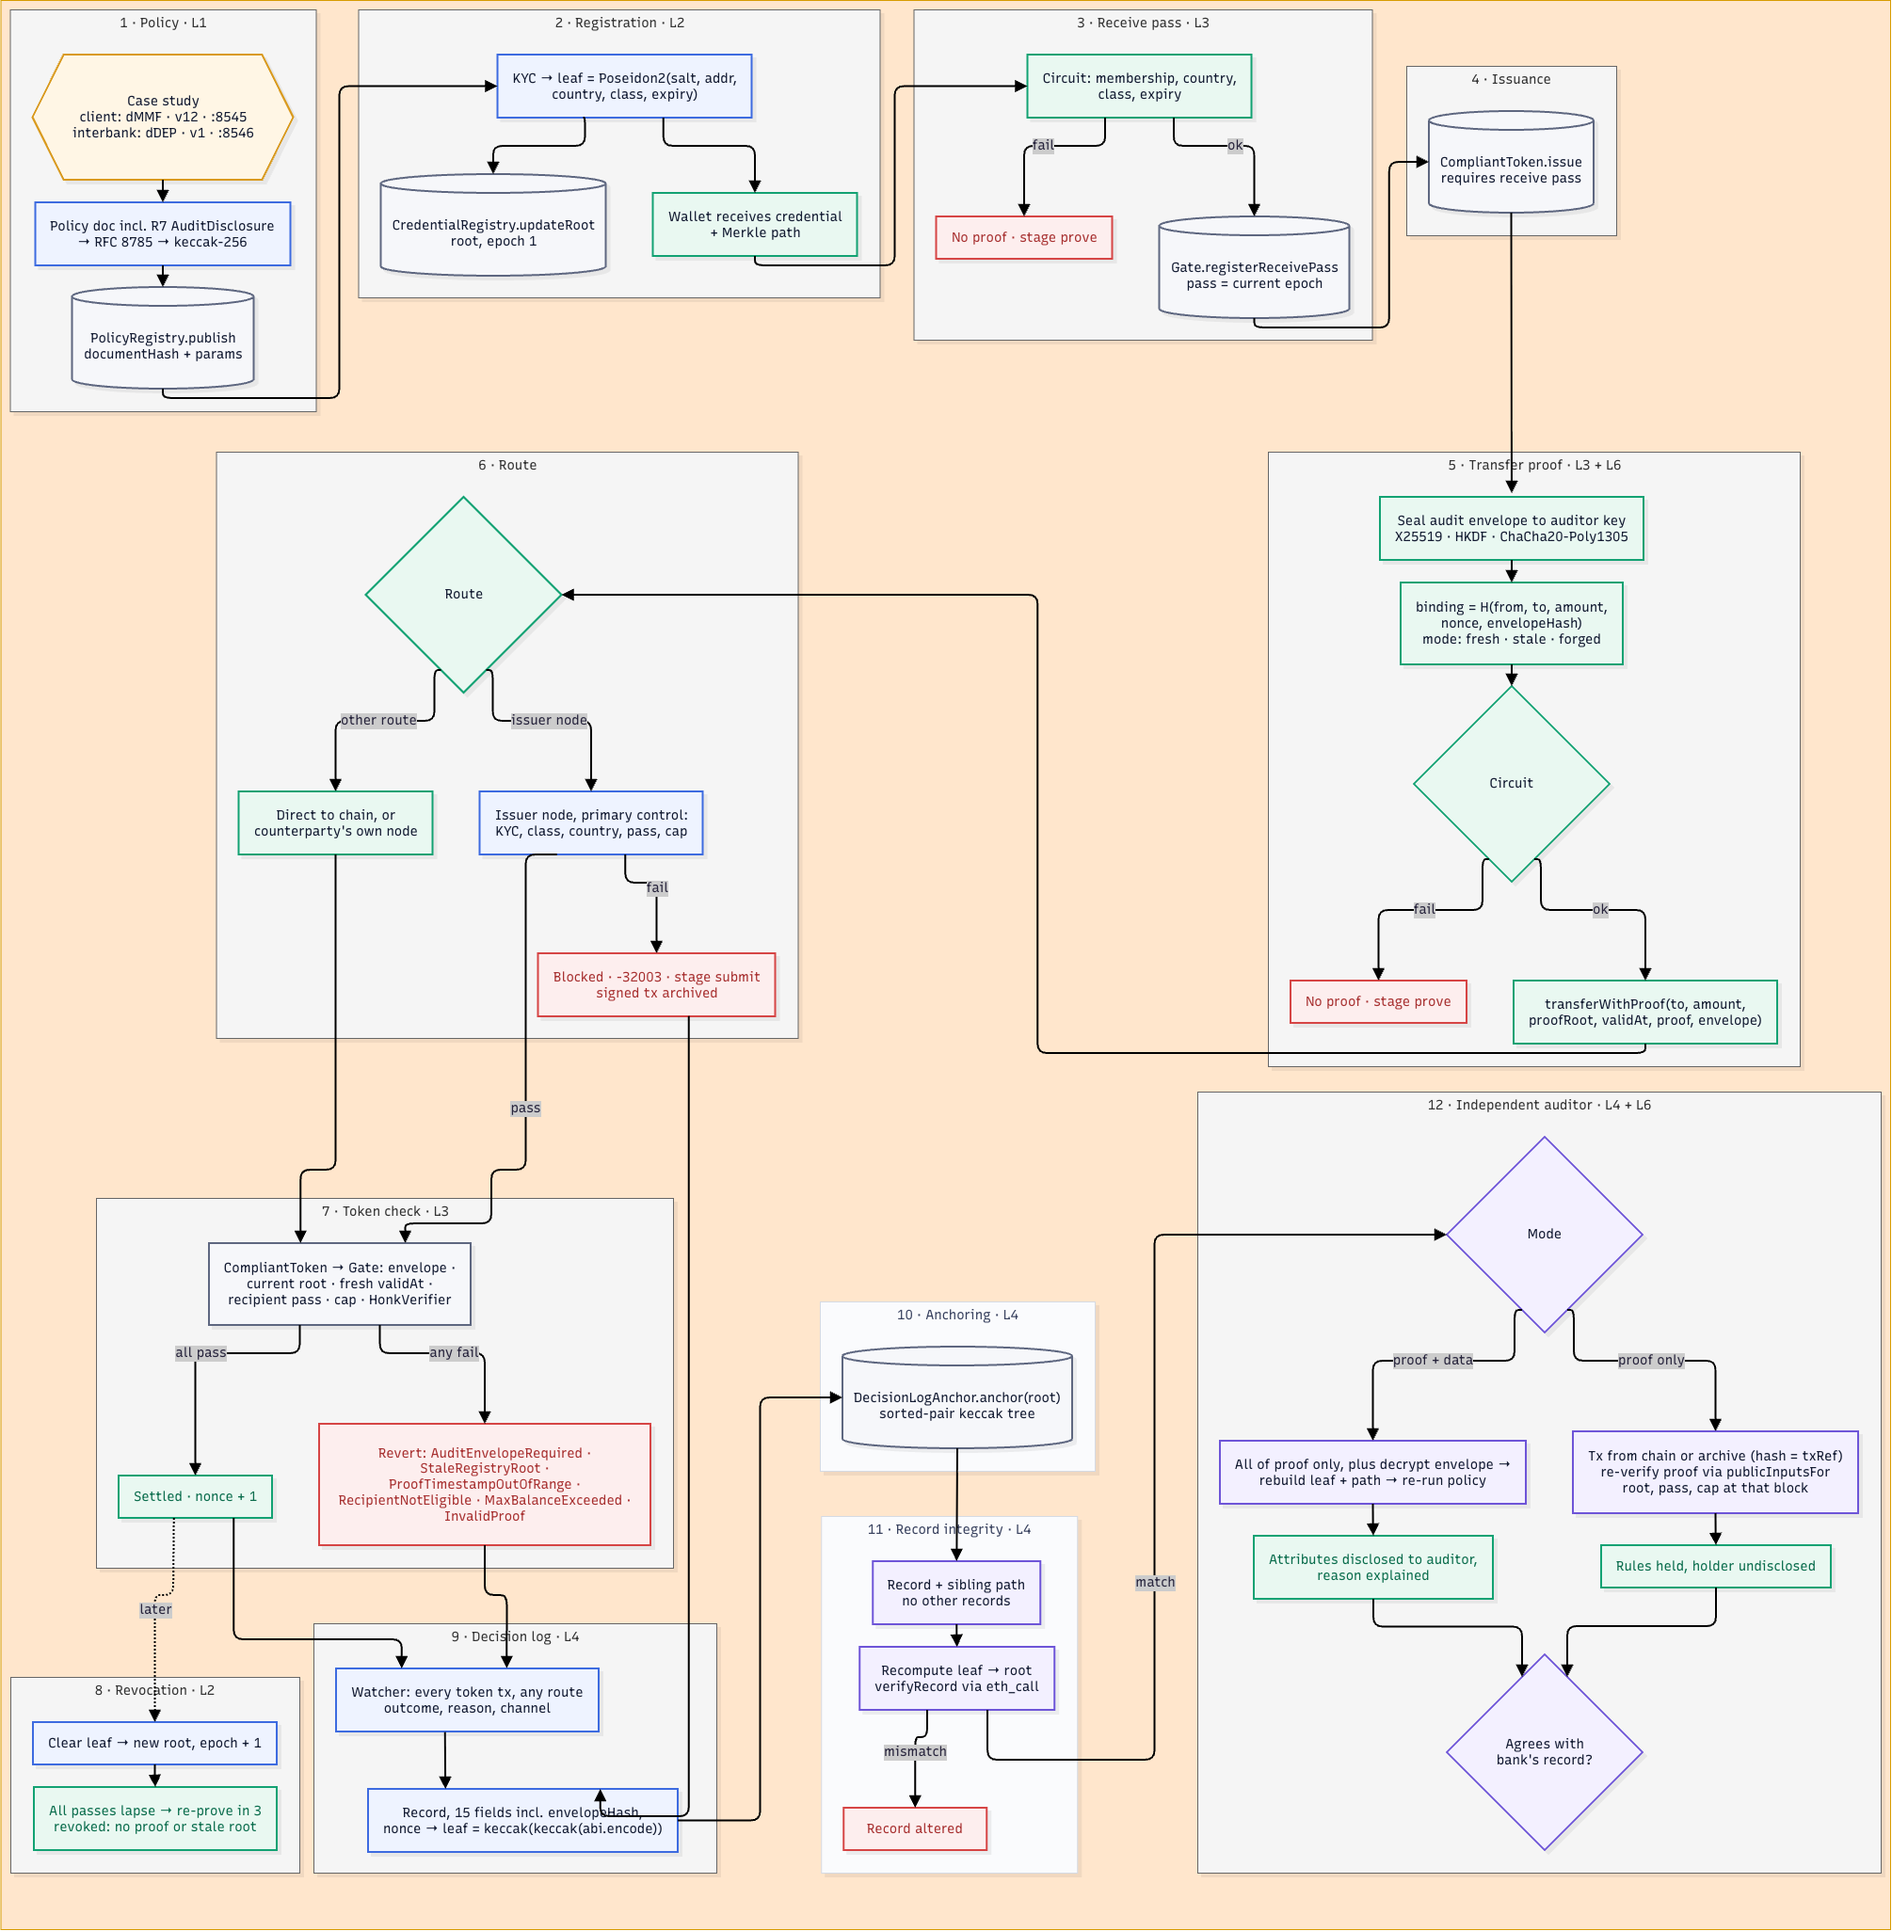
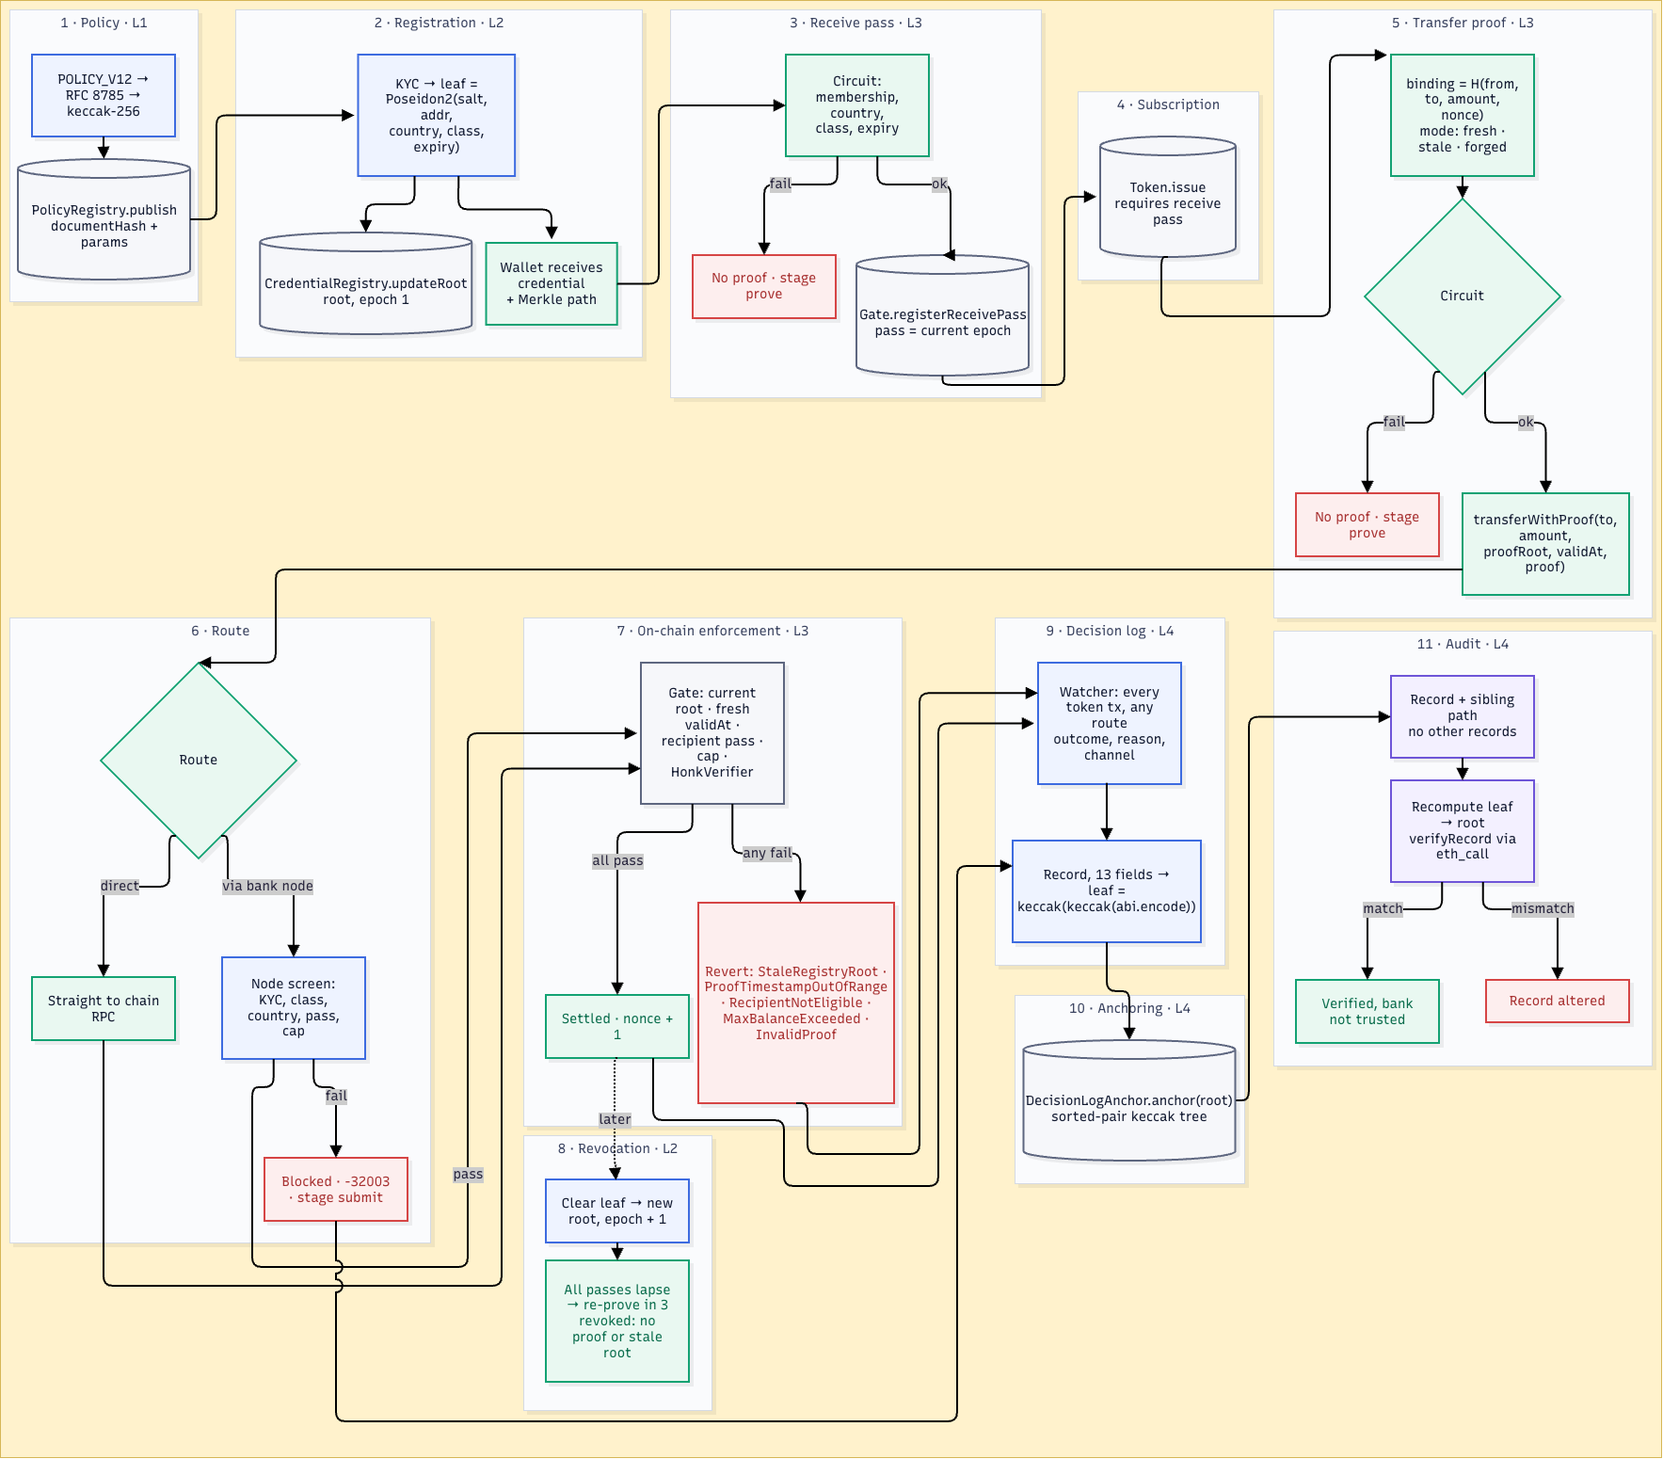
Added: demo video and architecture diagram to README

diff --git a/README.md b/README.md
@@ -4,12 +4,13 @@
 
 It implements Layers 1 to 4 of the architecture in the accompanying note, *Making Compliance Provable on Public Blockchains*, end to end, with a first step of Layer 6: real zero-knowledge proofs, on-chain verification, credential revocation, a Merkle-anchored audit trail and an independent auditor that can check any decision from the proof alone or from the proof and its data. It runs one case study: interbank settlement of a tokenised deposit.
 
-<!-- DEMO VIDEO: replace with a link or embedded GIF of the walkthrough -->
-> **Demo video:** _coming soon_
+## Demo
 
-<!-- ARCHITECTURE DIAGRAM: replace with docs/architecture.png -->
-> **Architecture diagram:**
-> ![Architecture Diagram](./assets/Codebase_Architecture.png)
+[![Watch the 3-minute demo](https://www.loom.com/v1/videos/c1b5c0add3e0420c8d81a70c82d2dbc6/thumbnail.gif)](https://www.loom.com/share/c1b5c0add3e0420c8d81a70c82d2dbc6)
+
+**[▶ Watch the 3-minute walkthrough on Loom](https://www.loom.com/share/c1b5c0add3e0420c8d81a70c82d2dbc6)**
+
+## Quick start
 
 ```bash
 npm start      # installs, builds, deploys and opens http://localhost:3000
@@ -55,6 +56,8 @@ The envelope is `X25519 + HKDF-SHA256 + ChaCha20-Poly1305`, authenticated to the
 ## Architecture
 
 The wallet, the bank and the auditor are separate processes with separate responsibilities: the bank never sees a holder's private inputs, and the auditor reads the chain directly, treating the bank's answers as claims to check.
+
+![Architecture: how a transfer moves through policy, credentials, proof, routing, the decision log and the auditor](./assets/Codebase_Architecture.png)
 
 ```mermaid
 flowchart LR
@@ -137,7 +140,7 @@ npm run typecheck
 
 | Suite | Covers |
 |---|---|
-| `packages/shared` | Policy canonicalisation and fingerprint stability, parameter derivation for both policies, Merkle proofs for every tree size, tamper detection, envelope confidentiality, authentication and unlinkability |
+| `packages/shared` | Policy canonicalisation and fingerprint stability, parameter derivation, Merkle proofs for every tree size, tamper detection, envelope confidentiality, authentication and unlinkability |
 | `packages/circuits` | TypeScript and Noir agree on roots; revoked, wrong-jurisdiction, wrong-class, expired, wrong-holder and tampered credentials are unprovable; a real proof verifies and a forged public input fails |
 | `packages/contracts` | Public-input ordering matches the circuit; off-chain bindings match on-chain; envelope required and bound; append-only policies; issuance and transfer gating; replay and redirection; balance cap; stale root; proof freshness; historical public inputs; on-chain record verification |
 | `apps/server` (e2e) | The full story across chain, bank, wallets and auditor: every route, every rejection reason, anchoring, on-chain audit, and every decision re-checked in both audit modes |
@@ -149,7 +152,7 @@ This is a proof of concept, built to make the architecture concrete. Deliberate 
 - **Local chains and development keys.** Accounts use Hardhat's public test mnemonic, and the auditor's demo key is in the source. Nothing here should hold real value.
 - **Credential delivery.** Holders collect their credential over an unauthenticated local API; production would use an authenticated wallet channel and holder-generated secrets.
 - **One auditor key.** Production would use a key held by the supervisor or split across parties (threshold decryption), which is the rest of Layer 6.
-- **Single issuer per case.** Cross-issuer credentials and policy migration belong to Layer 8.
+- **Single issuer.** Cross-issuer credentials and policy migration belong to Layer 8.
 - **Amounts and addresses are public.** Hiding them is Layer 5 (for example ERC-7984); discussed in the note, not built.
 - **Revocation lapses all passes.** Simple and safe; a production design would use an append-only registry with a separate revocation accumulator so honest holders are not forced to re-prove.
 - **Gas.** On-chain UltraHonk verification costs a few million gas per proof, which is why the note suggests starting with issuance, redemption and new counterparties.
@@ -160,4 +163,4 @@ Noir 1.0 · Barretenberg (bb.js 5.3, UltraHonk) · Solidity 0.8.28 · OpenZeppel
 
 ---
 
-Pranav Shinde · October 2026 · MIT licence
+Pranav Shinde · November 2026 · MIT licence
